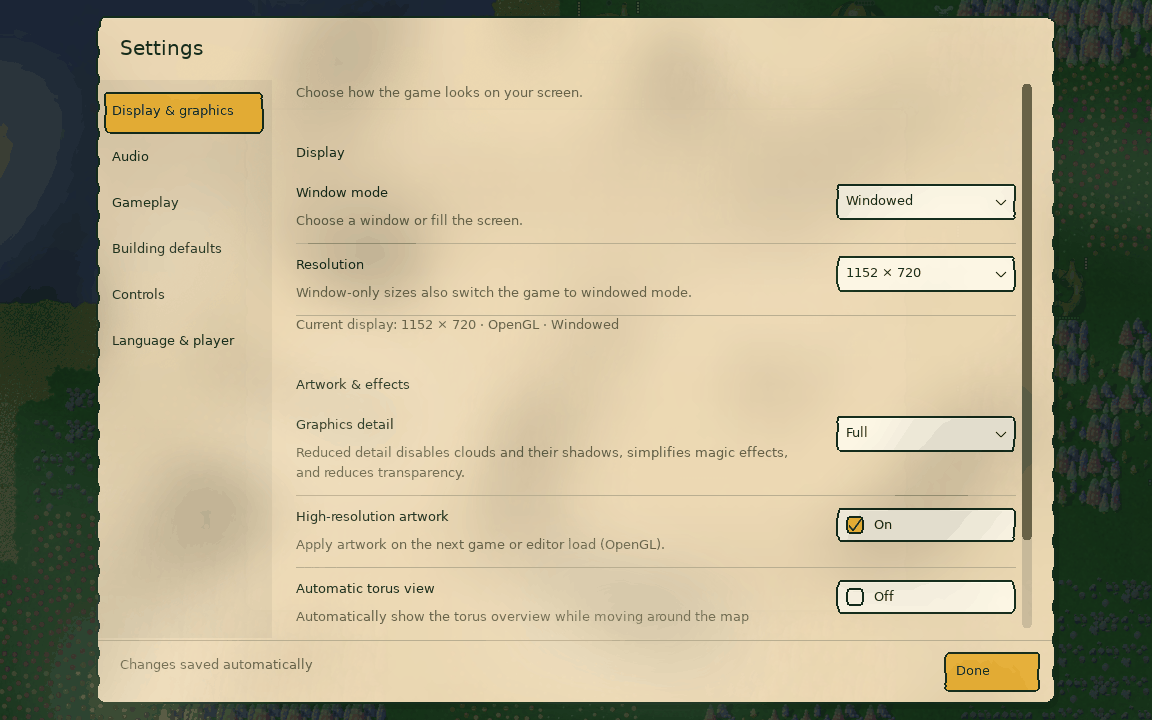
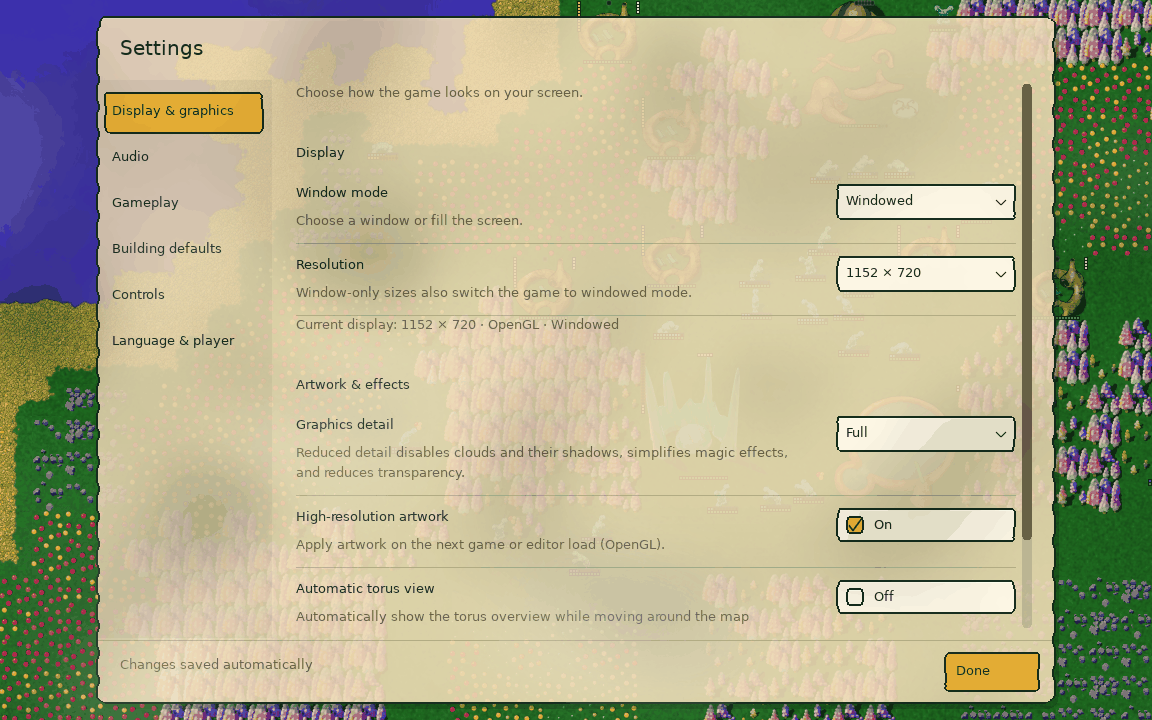
Give Settings the same membrane as every other screen
The settings screen darkened the world with its own alpha-200 scrim and
drew a near-opaque sheet over the theme's widget-union panel, so nothing
read through and its colour sat apart from the front page. Paint the world
and the shared scrim only, then one sheet at the common membrane alpha.
Refresh the settings captures.

Claude-Session: https://claude.ai/code/session_01MRgZCRPabZw9EKnhWNJG1S

Changed region(s): [[0.0, 0.0, 1.0, 1.0]]

diff --git a/src/SettingsScreenLayout.cpp b/src/SettingsScreenLayout.cpp
@@ -186,11 +186,13 @@ void SettingsScreen::paintRow(const Row& r)
 void SettingsScreen::paint()
 {
     layout();buildRows();layout();
-    // Opaque settings-local surfaces keep background texture out of the form.
-    Glob2Screen::paint();
-    gfx->drawFilledRect(0,0,getW(),getH(),Color(FrontendPalette::scrim.r,FrontendPalette::scrim.g,FrontendPalette::scrim.b,200));
+    // The theme paints the world and its shared scrim only (its widget-union
+    // panel would be a second sheet underneath); the settings sheet is the same
+    // membrane as every other screen, so the colony reads through it here too.
+    if(FrontendTheme::current && GAGGUI::Style::style==FrontendTheme::current)FrontendTheme::current->background(gfx,false);
+    else Glob2Screen::paint();
     FrontendTheme::rounded(gfx,panel.x+3,panel.y+5,panel.w,panel.h,12,Color(12,28,16,70));
-    FrontendTheme::blob(gfx,panel.x,panel.y,panel.w,panel.h,12,Color(paper.r,paper.g,paper.b,std::max(232,FrontendTheme::panelAlpha())),ink,2);
+    FrontendTheme::blob(gfx,panel.x,panel.y,panel.w,panel.h,12,Color(paper.r,paper.g,paper.b,FrontendTheme::panelAlpha()),ink,2);
     drawText(panel.x+padding,panel.y+20,tr("Settings"),false,true);
     const char* categories[]={"Display & graphics","Audio","Gameplay","Building defaults","Controls","Language & player"};
     if(modal==Modal::None && compactNavigation){
